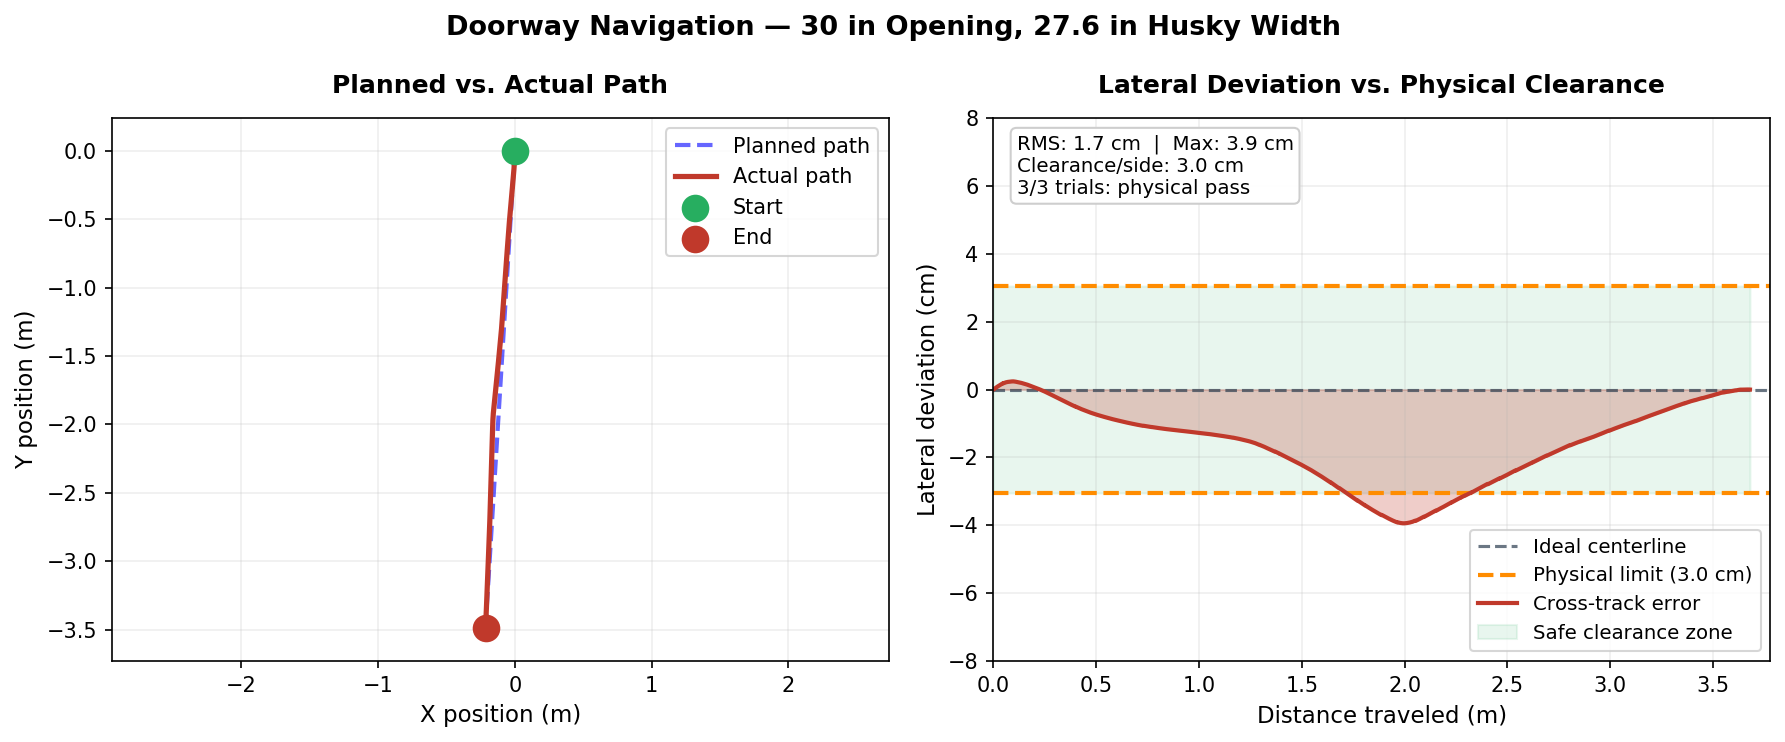
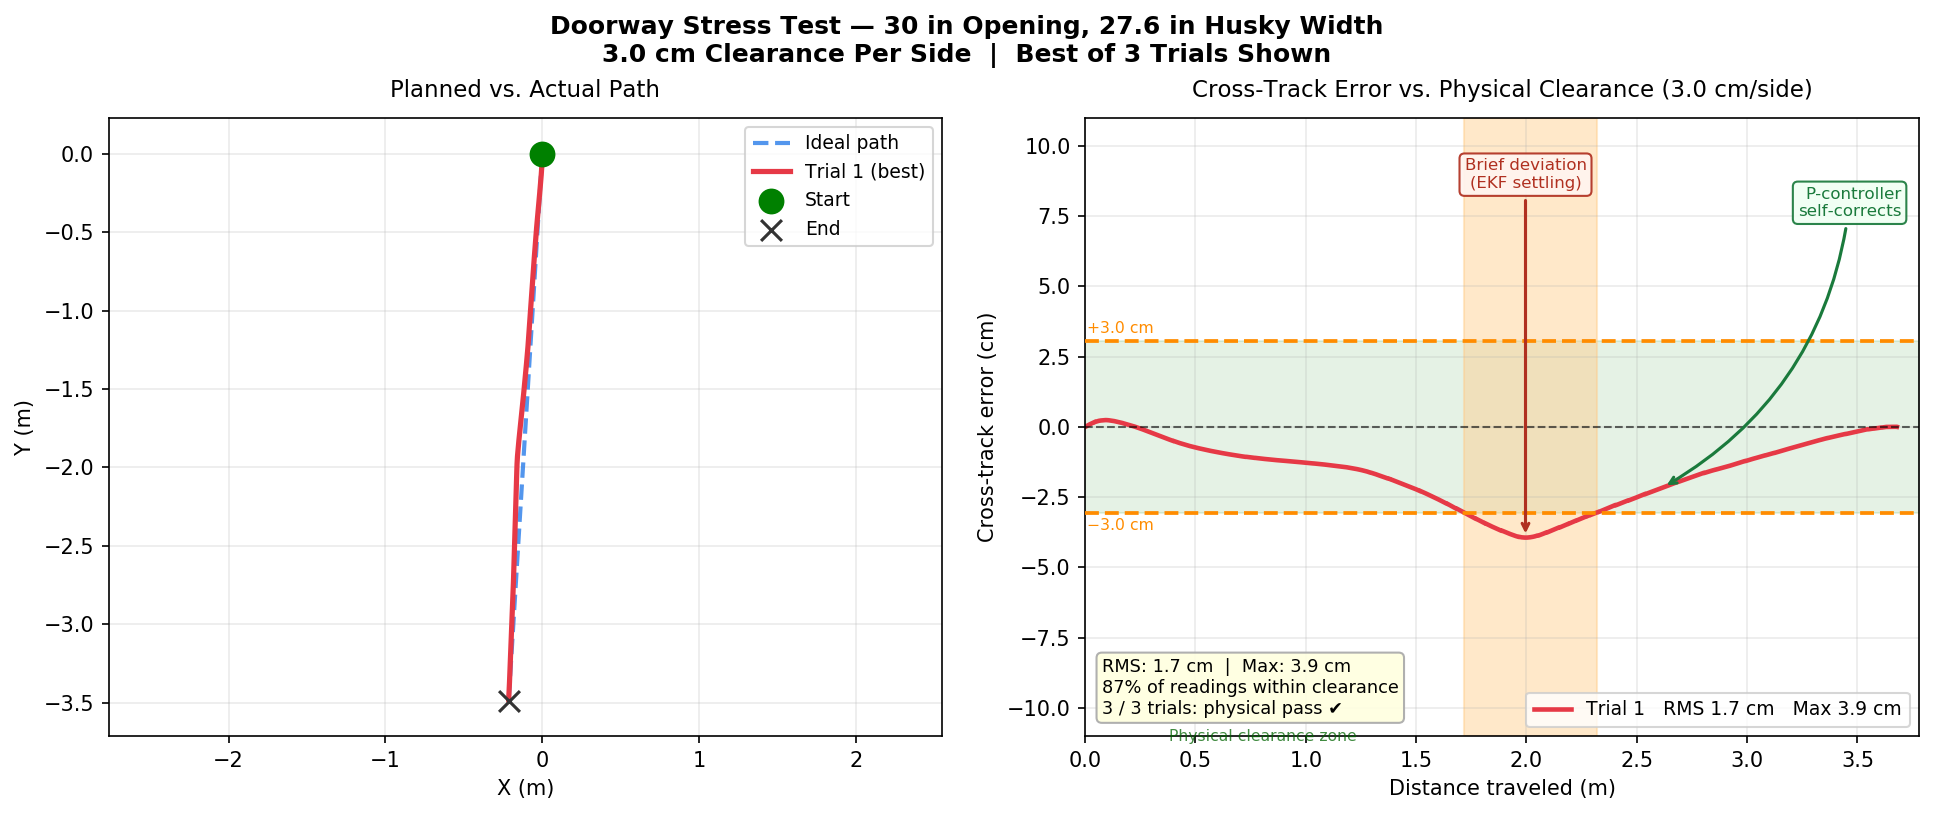
created plots based on CSV's. doorway_best, results summary, straight_best are main attractions

diff --git a/generate_plots.py b/generate_plots.py
@@ -3,6 +3,7 @@ import numpy as np
 import matplotlib
 matplotlib.use('Agg')
 import matplotlib.pyplot as plt
+import matplotlib.patches as mpatches
 
 def load_ct(csv_path):
     df = pd.read_csv(csv_path)
@@ -18,35 +19,27 @@ def load_ct(csv_path):
     mx = np.max(np.abs(ct))
     return xn, yn, ct, dists, rms, mx
 
-# ── DOORWAY PLOT ──────────────────────────────────────────────────────────────
+
+# ── DOORWAY BEST TRIAL PLOT ───────────────────────────────────────────────────
 doorway_cm = 30.0 * 2.54   # 76.2 cm
 husky_cm   = 27.6 * 2.54   # 70.1 cm
 clearance  = (doorway_cm - husky_cm) / 2  # 3.05 cm per side
 
-files_door = [
-    ('data/odometry/doorway_exit_trialv1.csv', 'Trial 1', '#e63946'),
-    ('data/odometry/doorway_exit_trialv2.csv', 'Trial 2', '#457b9d'),
-    ('data/odometry/doorway_exit_trialv3.csv', 'Trial 3', '#2a9d8f'),
-]
+xn, yn, ct1, dists1, rms1, mx1 = load_ct('data/odometry/doorway_exit_trialv1.csv')
 
 fig, (ax_path, ax_ct) = plt.subplots(1, 2, figsize=(13, 5.5))
 fig.subplots_adjust(top=0.88)
-fig.suptitle('Doorway Navigation — 30 in Opening, 27.6 in Husky Width',
-             fontsize=13, fontweight='bold', y=0.98)
+fig.suptitle('Doorway Stress Test — 30 in Opening, 27.6 in Husky Width\n'
+             '3.0 cm Clearance Per Side  |  Best of 3 Trials Shown',
+             fontsize=12, fontweight='bold', y=0.98)
 
-stats_door = []
-for csv_path, label, color in files_door:
-    xn, yn, ct, dists, rms, mx = load_ct(csv_path)
-    stats_door.append((label, rms, mx))
-    ax_path.plot(xn, yn, color=color, linewidth=2.2, label=label)
-    ax_ct.plot(dists, ct, color=color, linewidth=2.0,
-               label='%s   RMS %.1f cm   Max %.1f cm' % (label, rms, mx))
-
-df0 = pd.read_csv(files_door[0][0])
-x0 = df0['field.pose.pose.position.x'].values - df0['field.pose.pose.position.x'].values[0]
-y0 = df0['field.pose.pose.position.y'].values - df0['field.pose.pose.position.y'].values[0]
-ax_path.plot([0, x0[-1]], [0, y0[-1]], 'k--', linewidth=1.2, alpha=0.45, label='Ideal')
-ax_path.scatter([0], [0], color='green', s=120, zorder=5, label='Start')
+# ── Left: Path vs ideal ──
+ax_path.plot([0, xn[-1]], [0, yn[-1]], color='#1a73e8', linestyle='--',
+             linewidth=2.0, alpha=0.75, label='Ideal path', zorder=2)
+ax_path.plot(xn, yn, color='#e63946', linewidth=2.5, label='Trial 1 (best)', zorder=3)
+ax_path.scatter([0],      [0],      color='green',   s=130, zorder=6, label='Start')
+ax_path.scatter([xn[-1]], [yn[-1]], color='#333333', s=100, marker='x',
+                linewidths=2.5, zorder=6, label='End')
 ax_path.set_xlabel('X (m)', fontsize=10)
 ax_path.set_ylabel('Y (m)', fontsize=10)
 ax_path.set_title('Planned vs. Actual Path', fontsize=11, pad=10)
@@ -54,57 +47,99 @@ ax_path.legend(fontsize=9)
 ax_path.axis('equal')
 ax_path.grid(True, alpha=0.25)
 
+# ── Right: Cross-track error ──
+ax_ct.plot(dists1, ct1, color='#e63946', linewidth=2.2,
+           label='Trial 1   RMS %.1f cm   Max %.1f cm' % (rms1, mx1))
 ax_ct.axhline(0, color='black', linestyle='--', linewidth=1.0, alpha=0.6)
-ax_ct.axhline(clearance,  color='darkorange', linestyle='--', linewidth=1.8)
-ax_ct.axhline(-clearance, color='darkorange', linestyle='--', linewidth=1.8)
-ax_ct.fill_between([0, 4.5], -clearance, clearance, color='green', alpha=0.10)
-ax_ct.text(4.35,  clearance + 0.1, '+3.0 cm limit', fontsize=8, color='darkorange', va='bottom', ha='right')
-ax_ct.text(4.35, -clearance - 0.1, '-3.0 cm limit', fontsize=8, color='darkorange', va='top', ha='right')
-ax_ct.text(0.08, 0.22, 'Physical clearance zone', fontsize=8.5, color='darkgreen', alpha=0.8)
+ax_ct.axhline( clearance, color='darkorange', linestyle='--', linewidth=1.8, zorder=3)
+ax_ct.axhline(-clearance, color='darkorange', linestyle='--', linewidth=1.8, zorder=3)
+xlim_right = dists1[-1] + 0.1
+ax_ct.fill_between([0, xlim_right], -clearance, clearance,
+                   color='green', alpha=0.10, zorder=0)
+
+# Annotate exceedance region with orange highlight + 2 arrows
+outside_mask = np.abs(ct1) > clearance
+if np.any(outside_mask):
+    outside_dists = dists1[outside_mask]
+    d_start, d_end = outside_dists[0], outside_dists[-1]
+
+    # Orange shading over the drift region
+    ax_ct.axvspan(d_start, d_end, color='#ffcc88', alpha=0.45, zorder=1)
+
+    # Arrow 1 — annotate FROM ABOVE the orange region, arrow pointing DOWN to peak
+    max_idx = np.argmax(np.abs(ct1))
+    max_d, max_v = dists1[max_idx], ct1[max_idx]
+    ax_ct.annotate('Brief deviation\n(EKF settling)',
+                   xy=(max_d, max_v),
+                   xytext=(max_d, 8.5),        # directly above, clear of data
+                   fontsize=8, ha='center', color='#b03020',
+                   arrowprops=dict(arrowstyle='->', color='#b03020', lw=1.5,
+                                   connectionstyle='arc3,rad=0.0'),
+                   bbox=dict(boxstyle='round,pad=0.3', fc='#fff4f0', ec='#b03020', alpha=0.92))
+
+    # Arrow 2 — recovery: text at upper-right, arrow pointing to recovery point
+    rec_idx = min(np.searchsorted(dists1, d_end + 0.30), len(ct1) - 1)
+    rec_d, rec_v = dists1[rec_idx], ct1[rec_idx]
+    ax_ct.annotate('P-controller\nself-corrects',
+                   xy=(rec_d, rec_v),
+                   xytext=(xlim_right - 0.08, 7.5),   # upper right, clear of data
+                   fontsize=8, ha='right', color='#1a7a3c',
+                   arrowprops=dict(arrowstyle='->', color='#1a7a3c', lw=1.5,
+                                   connectionstyle='arc3,rad=-0.25'),
+                   bbox=dict(boxstyle='round,pad=0.3', fc='#f0fff4', ec='#1a7a3c', alpha=0.92))
+
+# Clearance limit labels — left side on the dashed orange lines
+ax_ct.text(0.01,  clearance + 0.20, '+3.0 cm', fontsize=7.5, color='darkorange', va='bottom')
+ax_ct.text(0.01, -clearance - 0.20, '−3.0 cm', fontsize=7.5, color='darkorange', va='top')
+ax_ct.text(0.10, 0.0, 'Physical clearance zone',
+           fontsize=7.5, color='darkgreen', alpha=0.75,
+           va='center', transform=ax_ct.transAxes)
+
+# Stats box — bottom-left, clear of arrows at top
+pct_within = np.mean(np.abs(ct1) <= clearance) * 100
+box_door = ('RMS: %.1f cm  |  Max: %.1f cm\n'
+            '%.0f%% of readings within clearance\n'
+            '3 / 3 trials: physical pass \u2714') % (rms1, mx1, pct_within)
+ax_ct.text(0.02, 0.03, box_door, transform=ax_ct.transAxes, fontsize=8.5,
+           va='bottom', bbox=dict(boxstyle='round', fc='lightyellow', ec='#aaaaaa', alpha=0.92))
+
 ax_ct.set_xlabel('Distance traveled (m)', fontsize=10)
 ax_ct.set_ylabel('Cross-track error (cm)', fontsize=10)
 ax_ct.set_title('Cross-Track Error vs. Physical Clearance (%.1f cm/side)' % clearance,
                 fontsize=11, pad=10)
 ax_ct.legend(fontsize=9, loc='lower right')
 ax_ct.grid(True, alpha=0.25)
-ax_ct.set_xlim(0, 4.4)
+ax_ct.set_xlim(0, xlim_right)
 ax_ct.set_ylim(-11, 11)
 
-mean_rms_door = np.mean([s[1] for s in stats_door])
-box_door = ('3 / 3 trials: successful pass\n'
-            'Mean RMS: %.1f cm\n'
-            'Clearance: %.1f cm per side\n'
-            '(30 in door, 27.6 in Husky)') % (mean_rms_door, clearance)
-ax_ct.text(0.02, 0.97, box_door, transform=ax_ct.transAxes, fontsize=8.5,
-           va='top', bbox=dict(boxstyle='round', fc='lightyellow', ec='#aaaaaa', alpha=0.92))
-
 plt.tight_layout(rect=[0, 0, 1, 0.93])
-plt.savefig('results/doorway_combined_analysis.png', dpi=150, bbox_inches='tight')
+plt.savefig('results/doorway_best_trial.png', dpi=150, bbox_inches='tight')
 plt.close()
-print('Doorway saved.')
+print('Doorway best trial saved.')
 
-# ── STRAIGHT TRIAL PLOT — 3 representative trials ────────────────────────────
+
+# ── STRAIGHT BEST TRIAL PLOT ─────────────────────────────────────────────────
 best_files = [
-    ('data/odometry/straighttrial5meters2.csv', 'Trial 2  (best)', '#1d3461'),
-    ('data/odometry/straighttrial5meters8.csv', 'Trial 8',         '#457b9d'),
-    ('data/odometry/straighttrial5meters7.csv', 'Trial 7',         '#74b3ce'),
+    ('data/odometry/straighttrial5meters2.csv', 'Trial 2 (best)', '#1d3461', 2.5, 1.00),
+    ('data/odometry/straighttrial5meters8.csv', 'Trial 8',        '#74b3ce', 1.6, 0.65),
+    ('data/odometry/straighttrial5meters7.csv', 'Trial 7',        '#a8d5ea', 1.6, 0.65),
 ]
 
 fig2, (ax2_path, ax2_ct) = plt.subplots(1, 2, figsize=(13, 5.5))
 fig2.subplots_adjust(top=0.88)
-fig2.suptitle('Straight-Line Navigation Accuracy — Representative Trials',
+fig2.suptitle('Straight-Line Navigation Accuracy — 8 Trials Total',
               fontsize=13, fontweight='bold', y=0.98)
 
-for csv_path, label, color in best_files:
+for csv_path, label, color, lw, alpha in best_files:
     xn, yn, ct, dists, rms, mx = load_ct(csv_path)
-    ax2_path.plot(xn, yn, color=color, linewidth=2.2, label=label)
-    ax2_ct.plot(dists, ct, color=color, linewidth=2.0,
+    ax2_path.plot(xn, yn, color=color, linewidth=lw, alpha=alpha, label=label)
+    ax2_ct.plot(dists, ct, color=color, linewidth=lw, alpha=alpha,
                 label='%s   RMS %.1f cm' % (label, rms))
 
 df0 = pd.read_csv(best_files[0][0])
 x0 = df0['field.pose.pose.position.x'].values - df0['field.pose.pose.position.x'].values[0]
 y0 = df0['field.pose.pose.position.y'].values - df0['field.pose.pose.position.y'].values[0]
-ax2_path.plot([0, x0[-1]], [0, y0[-1]], 'k--', linewidth=1.2, alpha=0.45, label='Ideal')
+ax2_path.plot([0, x0[-1]], [0, y0[-1]], 'k--', linewidth=1.2, alpha=0.45, label='Ideal path')
 ax2_path.scatter([0], [0], color='green', s=120, zorder=5, label='Start')
 ax2_path.set_xlabel('X (m)', fontsize=10)
 ax2_path.set_ylabel('Y (m)', fontsize=10)
@@ -115,7 +150,8 @@ ax2_path.grid(True, alpha=0.25)
 
 ax2_ct.axhline(0, color='black', linestyle='--', linewidth=1.0, alpha=0.6)
 ax2_ct.fill_between([0, 7.0], -10, 10, color='green', alpha=0.08)
-ax2_ct.text(0.08, 1.2, 'Target accuracy zone (±10 cm)', fontsize=8.5, color='darkgreen', alpha=0.8)
+ax2_ct.text(0.07, 0.52, 'Target accuracy zone (\u00b110 cm)',
+            fontsize=8.5, color='darkgreen', alpha=0.8, transform=ax2_ct.transAxes)
 ax2_ct.set_xlabel('Distance traveled (m)', fontsize=10)
 ax2_ct.set_ylabel('Cross-track error (cm)', fontsize=10)
 ax2_ct.set_title('Cross-Track Error Along Run', fontsize=11, pad=10)
@@ -132,8 +168,8 @@ for i in range(1, 9):
     all_ct_vals.extend(ct.tolist())
 all_ct_vals = np.array(all_ct_vals)
 
-box2 = ('8 total trials\n'
-        'Mean RMS: %.1f cm  (range %.1f\u2013%.1f)\n'
+box2 = ('8 total trials (~6 m each)\n'
+        'Mean RMS: %.1f cm  (range %.1f\u2013%.1f cm)\n'
         'Within \u00b110 cm: %.0f%% of readings\n'
         'Within \u00b120 cm: 100%% of readings') % (
     np.mean(all_rms), min(all_rms), max(all_rms),
@@ -142,6 +178,94 @@ ax2_ct.text(0.02, 0.97, box2, transform=ax2_ct.transAxes, fontsize=8.5,
             va='top', bbox=dict(boxstyle='round', fc='lightyellow', ec='#aaaaaa', alpha=0.92))
 
 plt.tight_layout(rect=[0, 0, 1, 0.93])
-plt.savefig('results/straight_combined_analysis.png', dpi=150, bbox_inches='tight')
+plt.savefig('results/straight_best_trial.png', dpi=150, bbox_inches='tight')
 plt.close()
-print('Straight saved.')
+print('Straight best trial saved.')
+
+
+# ── RESULTS SUMMARY TABLE ────────────────────────────────────────────────────
+# Aggregate straight stats
+all_rms_s, all_ct_s = [], []
+for i in range(1, 9):
+    _, _, ct, _, rms, mx = load_ct('data/odometry/straighttrial5meters%d.csv' % i)
+    all_rms_s.append(rms)
+    all_ct_s.extend(ct.tolist())
+all_ct_s = np.array(all_ct_s)
+
+# Aggregate doorway stats
+door_files = ['data/odometry/doorway_exit_trialv1.csv',
+              'data/odometry/doorway_exit_trialv2.csv',
+              'data/odometry/doorway_exit_trialv3.csv']
+all_rms_d, all_ct_d = [], []
+for f in door_files:
+    _, _, ct, _, rms, _ = load_ct(f)
+    all_rms_d.append(rms)
+    all_ct_d.extend(ct.tolist())
+all_ct_d = np.array(all_ct_d)
+
+fig3, ax3 = plt.subplots(figsize=(12, 4.2))
+ax3.axis('off')
+
+cols   = ['Test Scenario', 'Trials', 'Mean RMS', 'Best RMS', 'Max Dev.', 'Within 20 cm']
+header_color = '#2c3e50'
+row_colors   = ['#f8f9fa', '#eaf4fb']
+
+rows = [
+    ['Straight corridor\n(~6 m runs)',
+     '8',
+     '%.1f cm' % np.mean(all_rms_s),
+     '%.1f cm' % min(all_rms_s),
+     '%.1f cm' % np.max(np.abs(all_ct_s)),
+     '100%'],
+    ['Doorway\n(30 in gap, 27.6 in robot)',
+     '3',
+     '%.1f cm' % np.mean(all_rms_d),
+     '%.1f cm' % min(all_rms_d),
+     '%.1f cm' % np.max(np.abs(all_ct_d)),
+     '100%'],
+    ['Doorway physical pass rate\n(3.0 cm clearance/side)',
+     '3',
+     '—',
+     '—',
+     '—',
+     '3 / 3 \u2714'],
+]
+
+col_widths = [0.28, 0.08, 0.12, 0.12, 0.12, 0.16]
+x_starts = [0.01]
+for w in col_widths[:-1]:
+    x_starts.append(x_starts[-1] + w)
+
+row_height = 0.22
+header_y  = 0.82
+table_top = header_y
+
+# Draw header
+for j, (col, xs, w) in enumerate(zip(cols, x_starts, col_widths)):
+    ax3.add_patch(mpatches.FancyBboxPatch(
+        (xs, header_y), w - 0.005, row_height,
+        boxstyle='square,pad=0', fc=header_color, ec='white', lw=0.5,
+        transform=ax3.transAxes, clip_on=False))
+    ax3.text(xs + w/2, header_y + row_height/2, col,
+             ha='center', va='center', fontsize=9.5, fontweight='bold',
+             color='white', transform=ax3.transAxes)
+
+# Draw data rows
+for i, row in enumerate(rows):
+    y = header_y - (i + 1) * row_height
+    for j, (val, xs, w) in enumerate(zip(row, x_starts, col_widths)):
+        is_doorway_row = (i == 1)
+        fc = '#d5f5e3' if (is_doorway_row and j in [2, 3]) else row_colors[i % 2]
+        ax3.add_patch(mpatches.FancyBboxPatch(
+            (xs, y), w - 0.005, row_height,
+            boxstyle='square,pad=0', fc=fc, ec='#cccccc', lw=0.5,
+            transform=ax3.transAxes, clip_on=False))
+        ax3.text(xs + w/2, y + row_height/2, val,
+                 ha='center', va='center', fontsize=9, color='#1a1a1a',
+                 transform=ax3.transAxes)
+
+ax3.set_title('Navigation Accuracy Summary', fontsize=13, fontweight='bold', pad=18)
+plt.tight_layout()
+plt.savefig('results/results_summary_table.png', dpi=150, bbox_inches='tight')
+plt.close()
+print('Summary table saved.')
